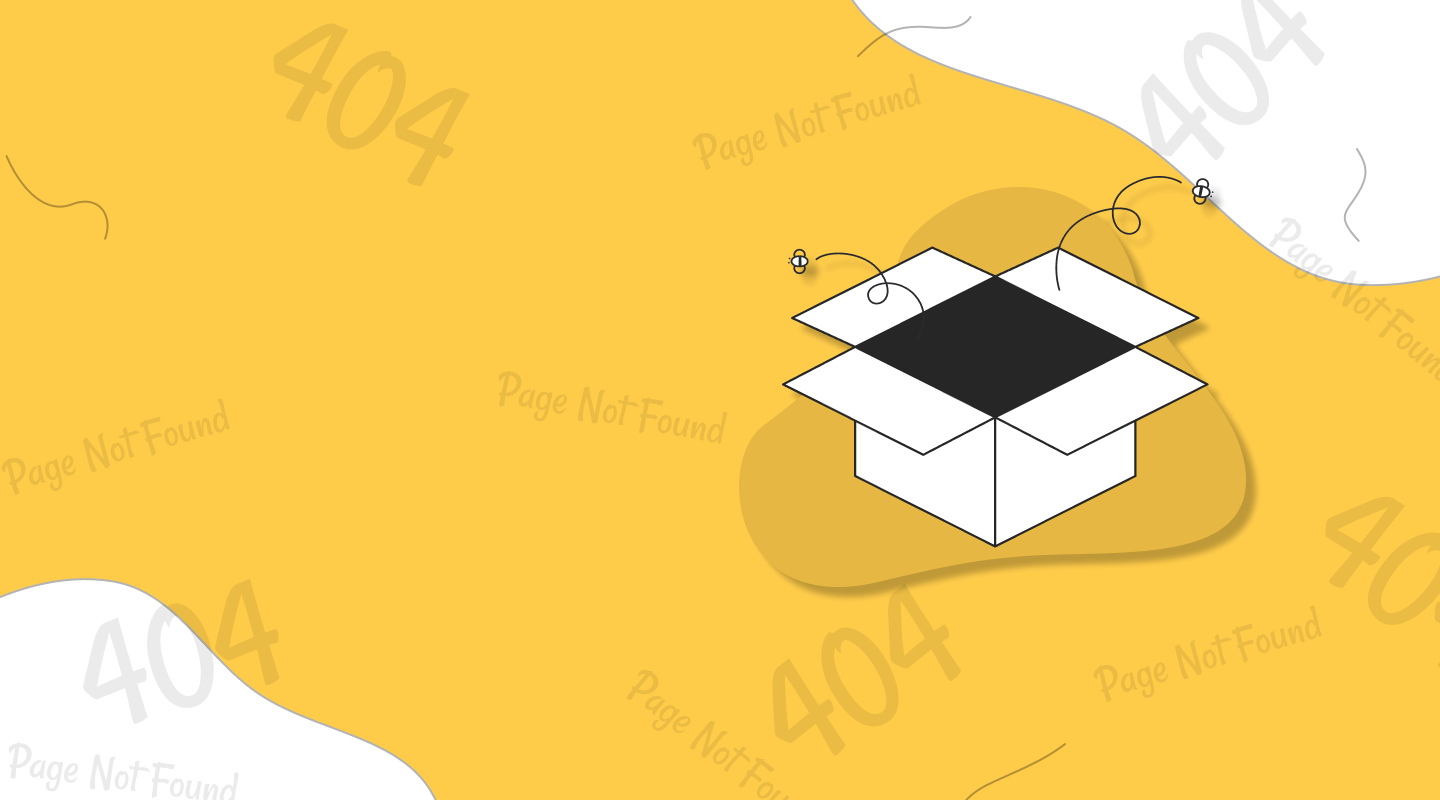
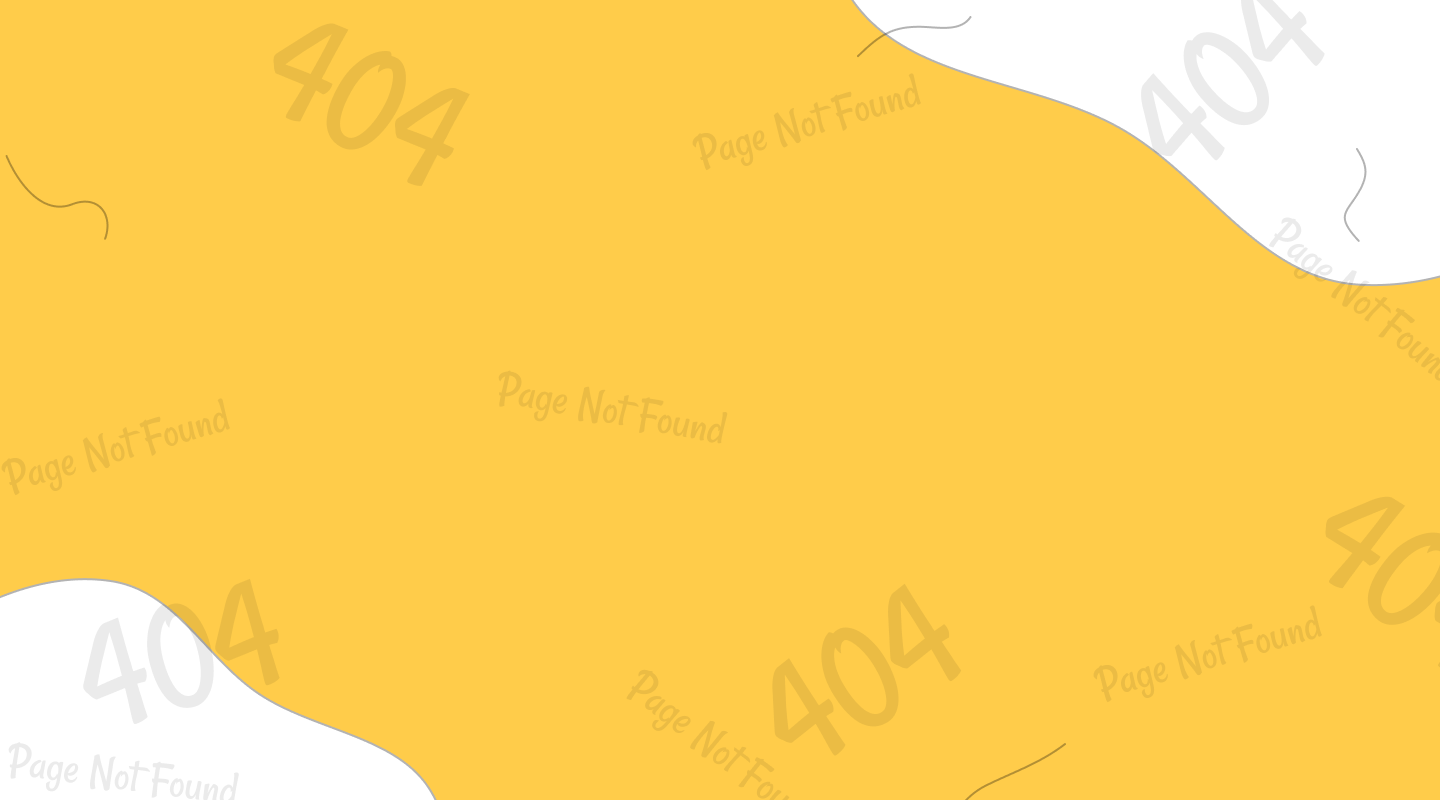
11.33

Changed region(s): [[0.5, 0.2188, 0.875, 0.75], [0.7812, 0.2188, 0.8438, 0.2812]]

diff --git a/public/stylesheets/404error.css b/public/stylesheets/404error.css
@@ -5,20 +5,34 @@
     font-family: Rancho;
     
 }
-.error{
+body{
     width: 100%;
     height: 100vh;
-}
-.bg{
-    width: 100%;
-    height: 93vh;
-    background-image: url(image/home/404error.png);
+    background: url("../images/home/404error.png");
+    background-size: cover;
+    background-repeat: no-repeat;
     display: flex;
     justify-content: center;
     flex-direction: column;
 }
+.error{
+    width: 100%;
+    height: 100vh;
+}
+.box{
+    width: 75%;
+    
+}
+.box img{
+    width: 33%;
+    height: 61%;
+    position: absolute;
+    
+    left: 53%;
+    top: 20%;
+}
 .logo img{
-    width:9% ;
+    width:11% ;
     height: 10%;
     position: absolute;
     top: 2%;
@@ -48,3 +62,188 @@ button{
     left: 28%;
     top: 64%;
 }
+
+@media(max-width:1200px){
+    button{
+        width: 24%;
+    }
+    .box img{
+        width: 40%;
+        height: 52%;
+    }
+    .logo img{
+        width:13% ;
+        height: 11%;
+        position: absolute;
+        top: 2%;
+        left: 2%;
+    }
+}
+@media(max-width:1000px){
+    button{
+        width: 27%;
+    }
+    .box img{
+        width: 33%;
+        height: 61%;
+        position: absolute;    
+        left: 60%;
+        top: 20%;
+    }
+    .logo img{
+        width:14% ;
+        height: 11%;
+        position: absolute;
+        top: 2%;
+        left: 2%;
+    }
+    
+}
+@media(max-width:900px){
+    button{
+        width: 29%;
+    }
+    .box img{
+        width: 40%;
+        height: 52%;
+    }
+    .content h1{
+        font-size: 140px;
+        position: absolute;
+        top: 23%;
+        left: 9%;
+    }
+    .content p{
+        font-size: 38px;
+        position: absolute;
+        top: 47%;
+        left: 10%;
+    }
+    .logo img{
+        width:15% ;
+        height: 11%;
+        position: absolute;
+        top: 2%;
+        left: 2%;
+    }
+    
+    
+}
+@media(max-width:800px){
+    button{
+        width: 33%;
+    }
+    .box img{
+        width: 40%;
+        height: 48%;
+    }
+    .content h1{
+        font-size: 135px;
+        position: absolute;
+        top: 23%;
+        left: 9%;
+    }
+    .content p{
+        font-size: 38px;
+        position: absolute;
+        top: 47%;
+        left: 10%;
+    }
+    .logo img{
+        width:17% ;
+        height: 11%;
+        position: absolute;
+        top: 2%;
+        left: 2%;
+    }
+    
+    
+}
+@media(max-width:700px){
+    button{
+        width: 38%;
+        left: 30%;
+        top: 60%;
+    }
+    .box img{
+       display: none;
+    }
+    .content h1{
+        font-size: 145px;
+        position: absolute;
+        top: 16%;
+        left: 18%;
+    }
+    .content p{
+        font-size: 38px;
+        position: absolute;
+        top: 44%;
+        left: 20%;
+    }
+}
+@media(max-width:600px){
+    button{
+        width: 25%;
+        left: 25%;
+        top: 60%;
+    }
+    .content h1{
+        font-size: 135px;
+        position: absolute;
+        top: 17%;
+        left: 11%;
+    }
+    .content p{
+        font-size: 37px;
+        position: absolute;
+        top: 41%;
+        left: 13%;
+    }
+    .logo img{
+        width:20% ;
+        height: 11%;
+        position: absolute;
+        top: 2%;
+        left: 2%;
+    }
+    
+}
+@media(max-width:500px){
+    button{
+        width: 60%;
+        left: 19%;
+        top: 60%;
+    }
+    .content h1{
+        font-size: 120px;
+        position: absolute;
+        top: 16%;
+        left: 11%;
+    }
+    .content p{
+        font-size: 37px;
+        position: absolute;
+        top: 39%;
+        left: 13%;
+    }
+}
+@media(max-width:400px){
+    button{
+        width: 66%;
+        left: 19%;
+        top: 62%;
+    }
+    .content h1{
+        font-size: 109px;
+        position: absolute;
+        top: 19%;
+        left: 9%;
+    }
+    .content p{
+        font-size: 34px;
+        position: absolute;
+        top: 42%;
+        left: 9%;
+    }
+}
+

diff --git a/public/stylesheets/aboutus.css b/public/stylesheets/aboutus.css
@@ -877,13 +877,13 @@ iframe {
 		padding: 0rem 3rem;
 	}
 	.apppage h2 {
-		right: 7%;
+		right: 16%;
 		font-size: 20px;
 	} 
 	.apppage a img{
 		top: 50%;
 		right: 20%;
-		width: 25%;
+		width: 35%;
 	    height: 15%;
 	}
 }
@@ -891,6 +891,16 @@ iframe {
 @media (max-width: 500px) {
 	.gallery {
 		margin-bottom: 0rem;
+	}
+	.apppage h2 {
+		right: 4%;
+		font-size: 20px;
+	} 
+	.apppage a img{
+		top: 50%;
+		right: 16%;
+		width: 39%;
+	    height: 15%;
 	}
 }
 
@@ -907,7 +917,7 @@ iframe {
 		top: 57%;
 	} 
 	.apppage a img{
-		top: 19rem;
+		top: 17rem;
 		width: 65%;
 	    height: 15%;
 		left: 18%;

diff --git a/routes/userRoute.js b/routes/userRoute.js
@@ -53,7 +53,7 @@ router.route("/").get(async (req, res) => {
           }
           await db.query(
             "SELECT * FROM calendarevents",
-            async (error, response) => {
+            async(error, response) => {
               var calendar = [];
               if (error) {
                 console.log(error);
